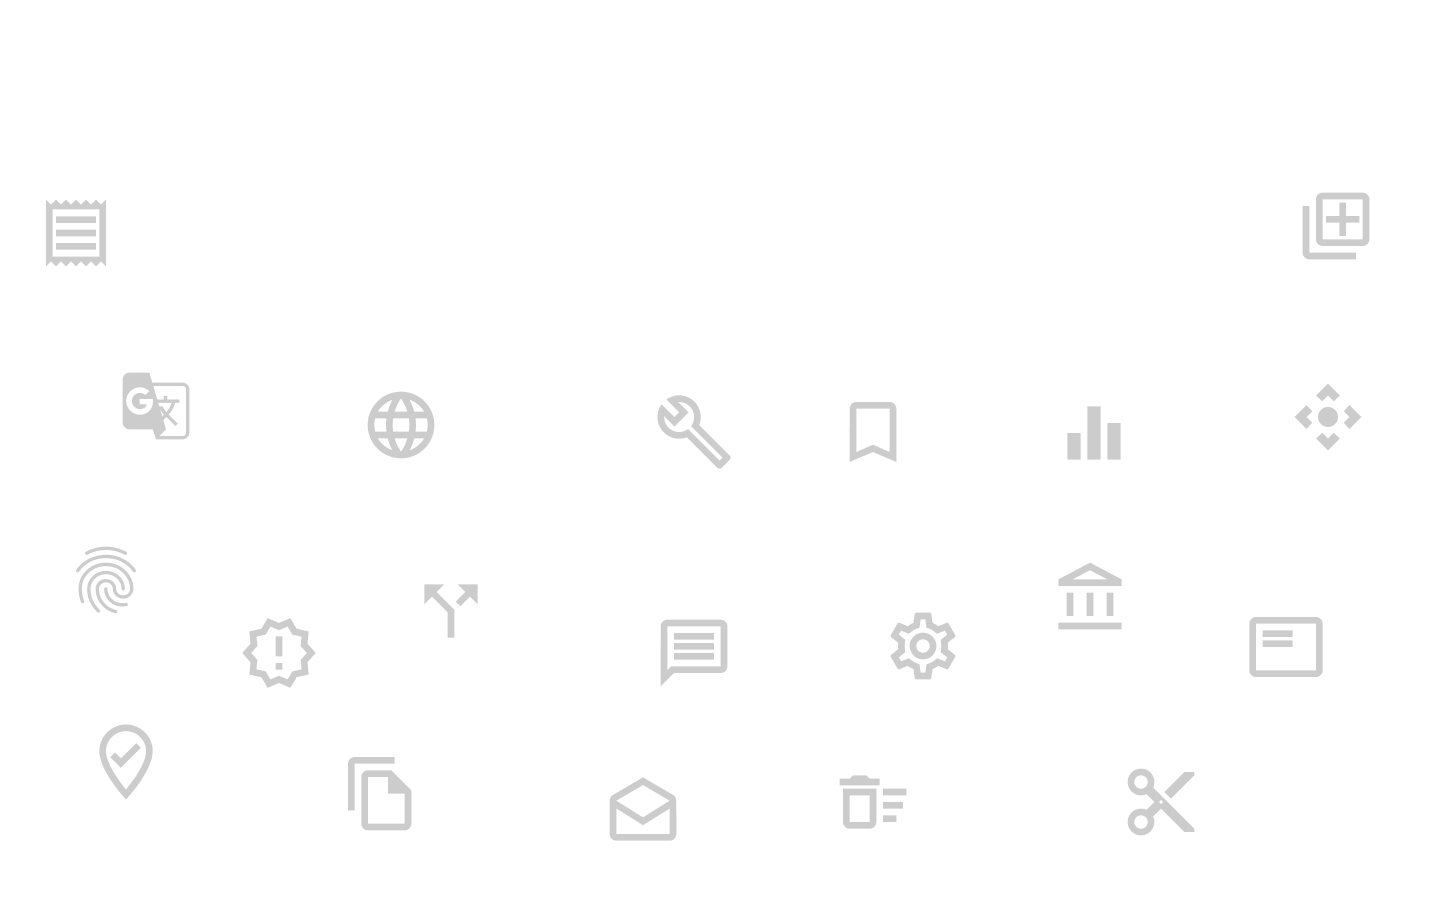
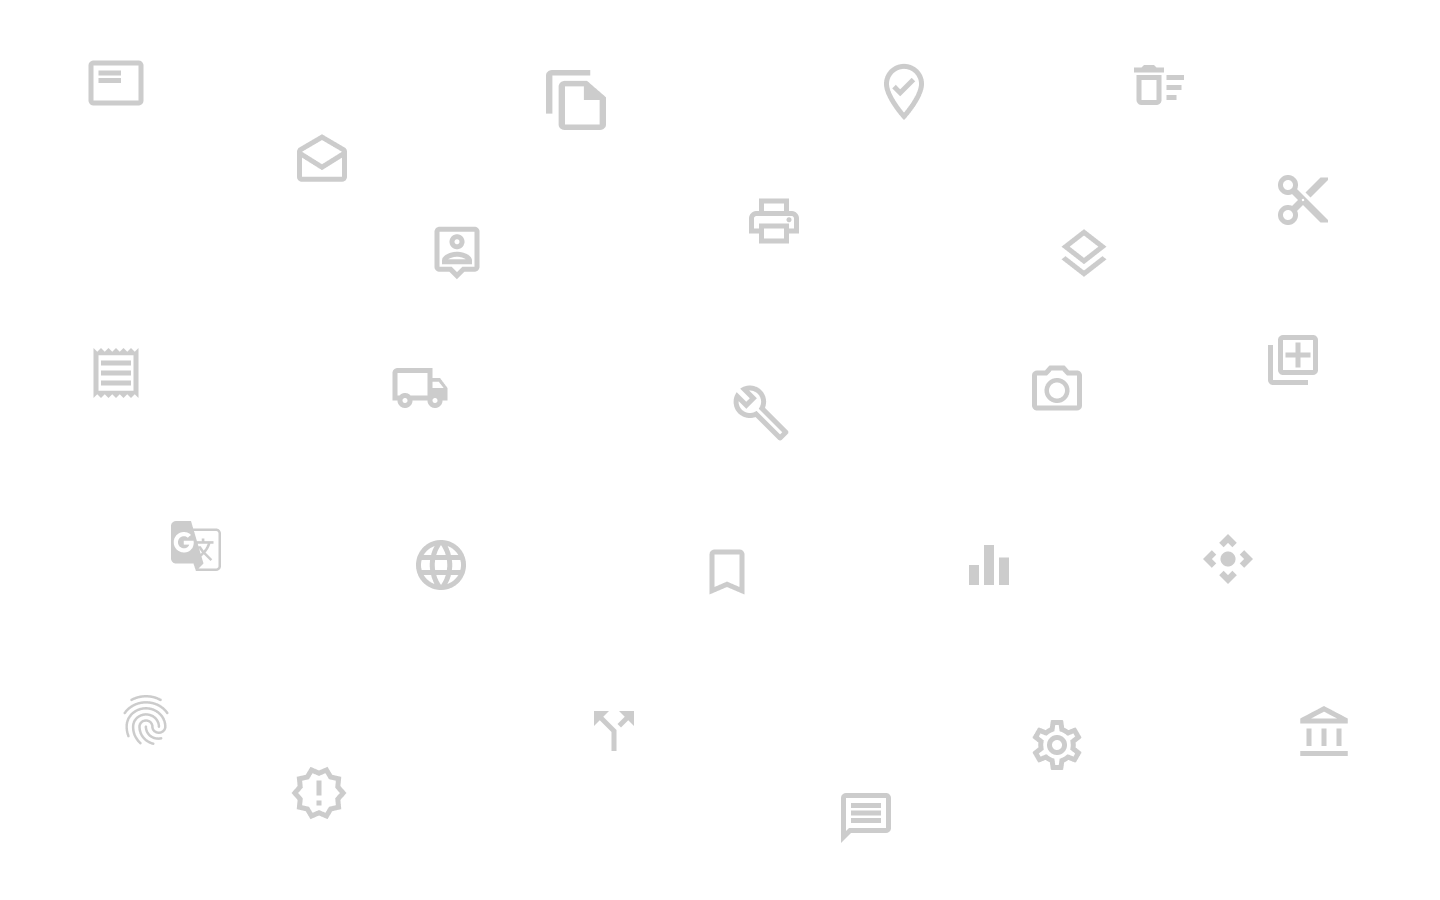
Undate landing stype

diff --git a/app/assets/stylesheets/welcome.scss b/app/assets/stylesheets/welcome.scss
@@ -6,14 +6,14 @@
   padding-bottom: 0;
   background: image-url("landing.png");
   background-size: cover;
-  background-repeat: repeat-x;
+  background-repeat: repeat;
   background-position: center;
 
   .landing-center {
-    padding-top: 10%;
+    padding-top: 15%;
 
     h1 {
-      font-weight: 800;
+      font-weight: 700;
       font-size: 3rem;
     }
     button {
@@ -26,7 +26,7 @@
 @media (min-width: 992px) {
   .lading {
     height: 100vh;
-    min-height: 40rem;
+    // min-height: 40rem;
     padding-top: 72px;
     padding-bottom: 0;
   }
